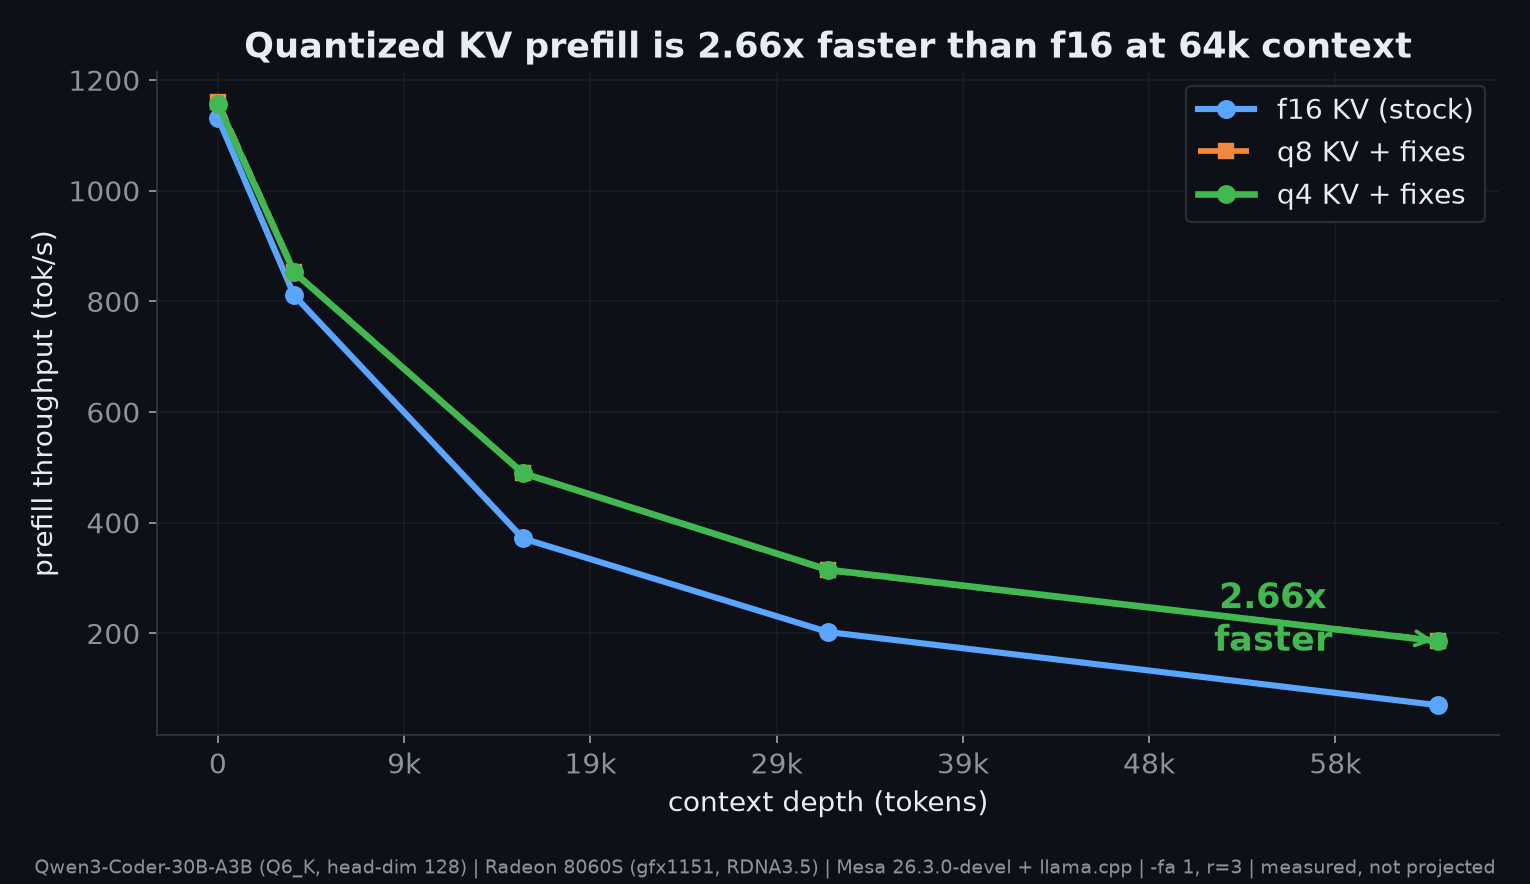
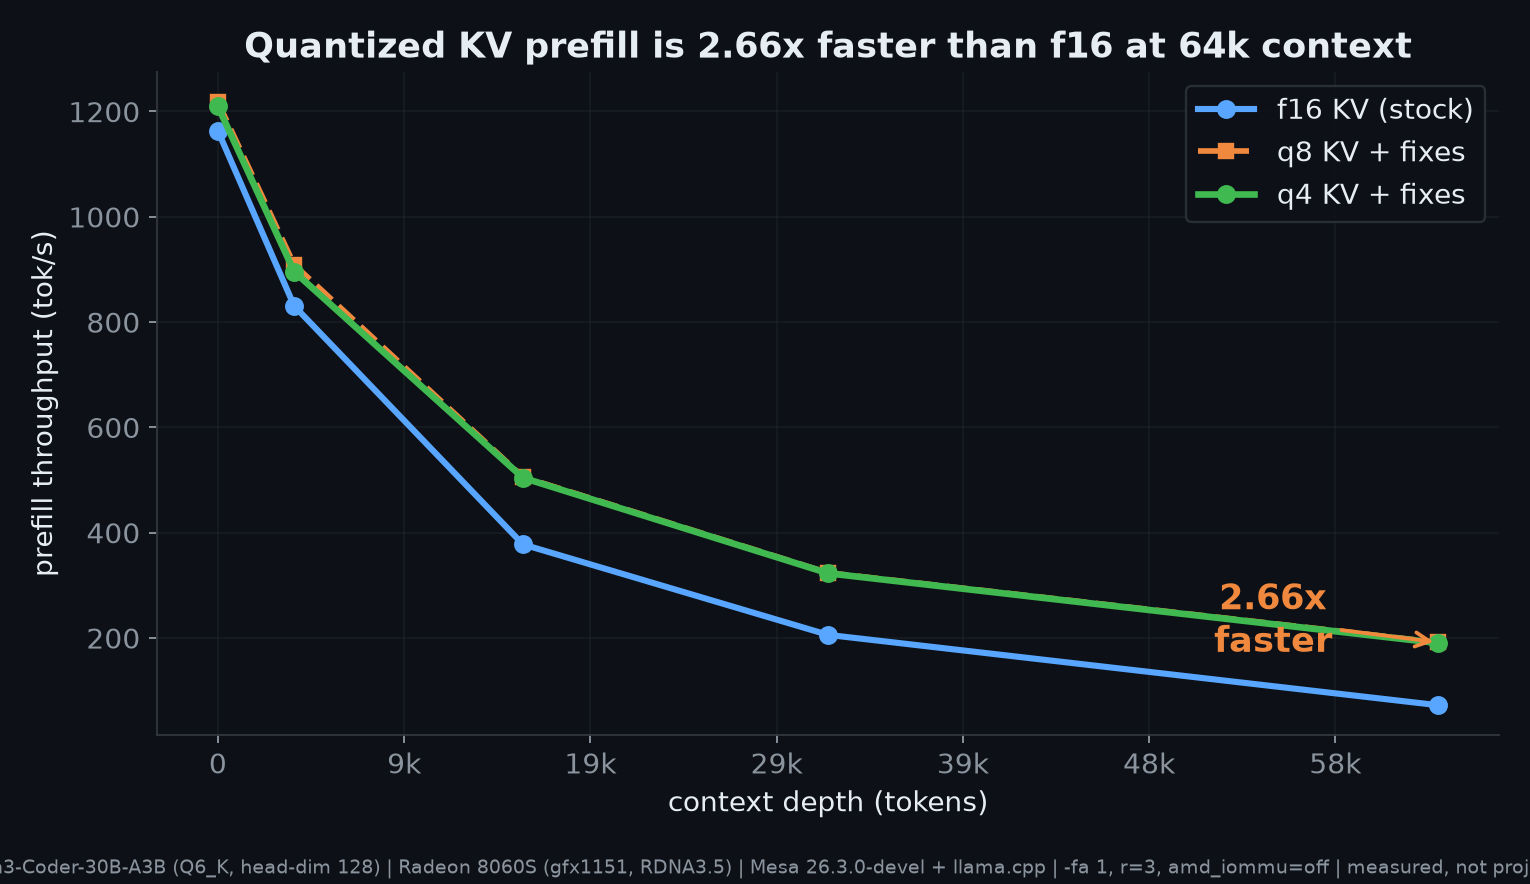
Re-benchmark on amd_iommu=off (0-64k): regenerate graphs + tables; 2.66x headline reproduces
- Graphs rebuilt from merged Phase 1 (0-32k) + Phase 2 (64k) iommu-off data
- Coder-30B 64k: 2.64x (q4) / 2.66x (q8); 35B Q4_K_XL 64k: +9% prefill / +18% decode
- README tables + methodology (amd_iommu=off, canaries within 0.3%)
- Host-tuning note: measured iommu effect ~+3-5% prefill, neutral decode
- BENCHMARKS: re-validation note (headline reproduces; iommu-on tables sit a few % low)

diff --git a/benchmarks/scripts/make_graphs.py b/benchmarks/scripts/make_graphs.py
@@ -1,0 +1,95 @@
+#!/usr/bin/env python3
+import re, matplotlib
+matplotlib.use("Agg")
+import matplotlib.pyplot as plt
+from matplotlib.ticker import FuncFormatter
+
+BG="#0d1117"; FG="#e6edf3"; GRID="#30363d"; MUT="#8b949e"
+F16="#58a6ff"; FIX="#3fb950"; ACC="#f0883e"; PUB="#d29922"
+plt.rcParams.update({
+    "figure.facecolor":BG,"axes.facecolor":BG,"savefig.facecolor":BG,
+    "text.color":FG,"axes.labelcolor":FG,"xtick.color":MUT,"ytick.color":MUT,
+    "axes.edgecolor":GRID,"grid.color":GRID,"font.size":12,
+    "axes.titlesize":15,"axes.titleweight":"bold","figure.dpi":170,
+})
+FOOT="Radeon 8060S (gfx1151, RDNA3.5) | Mesa 26.3.0-devel + llama.cpp | -fa 1, r=3, amd_iommu=off | measured, not projected"
+
+def parse(path):
+    out={}
+    for ln in open(path):
+        if "|" not in ln or ("pp" not in ln and "tg" not in ln): continue
+        cells=[c.strip() for c in ln.split("|")]
+        test=next((c for c in cells if re.match(r"(pp|tg)\d+",c)),None)
+        if not test: continue
+        val=cells[-2] if cells[-1]=="" else cells[-1]
+        m=re.search(r"([\d.]+)",val.split("±")[0])
+        if not m: continue
+        d=0; md=re.search(r"@ d(\d+)",test); d=int(md.group(1)) if md else 0
+        metric="tg" if test.startswith("tg") else "pp"
+        out[(metric,d)]=float(m.group(1))
+    return out
+
+def curve(dat,metric):
+    ds=sorted(d for (mm,d) in dat if mm==metric)
+    return ds,[dat[(metric,d)] for d in ds]
+
+def style(ax):
+    ax.grid(True,alpha=.3,lw=.7); [s.set_visible(False) for s in (ax.spines['top'],ax.spines['right'])]
+    ax.xaxis.set_major_formatter(FuncFormatter(lambda x,_: f"{int(x/1024)}k" if x>=1024 else "0"))
+    ax.set_xlabel("context depth (tokens)")
+
+P1="/home/alloy/kvoff-p1-results"; P2="/home/alloy/kvoff-p2-results"
+def parseM(name):  # merge Phase 1 (0-32k) + Phase 2 (0,64k) per arm; iommu-off canonical
+    d=parse(f"{P1}/{name}"); d.update(parse(f"{P2}/{name}")); return d
+c_f16=parseM("base_coder30b_f16.md"); c_q4=parseM("ceil_coder30b_q4.md"); c_q8=parseM("ceil_coder30b_q8.md")
+x_f16=parseM("stock_q4kxl_f16.md"); x_q4=parseM("ceil_q4kxl_q4.md")
+qc_f16=parseM("base_qwen35b_f16.md"); qc_q8=parseM("ceil_qwen35b_q8.md"); qc_q4=parseM("ceil_qwen35b_q4.md")
+
+# ---- Chart 1: Coder-30B prefill headline (2.66x) ----
+fig,ax=plt.subplots(figsize=(9,5.2))
+ds,y1=curve(c_f16,"pp"); _,y2=curve(c_q4,"pp"); _,y8=curve(c_q8,"pp")
+ax.plot(ds,y1,"o-",color=F16,lw=2.6,ms=7,label="f16 KV (stock)")
+ax.plot(ds,y8,"s--",color=ACC,lw=2.4,ms=6,label="q8 KV + fixes")
+ax.plot(ds,y2,"o-",color=FIX,lw=2.8,ms=7,label="q4 KV + fixes")
+r=y8[-1]/y1[-1]
+ax.annotate(f"{r:.2f}x\nfaster",(ds[-1],y8[-1]),xytext=(-70,-4),textcoords="offset points",
+    color=ACC,fontweight="bold",fontsize=15,ha="center",
+    arrowprops=dict(arrowstyle="->",color=ACC,lw=1.6))
+ax.set_title("Quantized KV prefill is 2.66x faster than f16 at 64k context")
+ax.set_ylabel("prefill throughput (tok/s)"); style(ax)
+ax.legend(facecolor=BG,edgecolor=GRID,labelcolor=FG,loc="upper right")
+fig.text(.5,.012,"Qwen3-Coder-30B-A3B (Q6_K, head-dim 128) | "+FOOT,ha="center",color=MUT,fontsize=8.2)
+fig.tight_layout(rect=[0,.04,1,1]); fig.savefig("/home/alloy/graphs/01_coder30b_prefill_2.66x.png"); plt.close(fig)
+
+# ---- Chart 2: 35B Q4_K_XL same-quant (prefill + decode) + kyuz0 decode overlay ----
+fig,(a1,a2)=plt.subplots(1,2,figsize=(13,5.4))
+ds,y1=curve(x_f16,"pp"); _,y2=curve(x_q4,"pp")
+a1.plot(ds,y1,"o-",color=F16,lw=2.6,ms=6,label="f16 KV (stock)")
+a1.plot(ds,y2,"o-",color=FIX,lw=2.8,ms=6,label="q4 KV + fixes")
+a1.set_title("Prefill  (+9% at 64k)"); a1.set_ylabel("prefill tok/s (pp512)"); style(a1)
+a1.legend(facecolor=BG,edgecolor=GRID,labelcolor=FG)
+ds,y1=curve(x_f16,"tg"); _,y2=curve(x_q4,"tg")
+a2.plot(ds,y1,"o-",color=F16,lw=2.6,ms=6,label="f16 KV (stock)")
+a2.plot(ds,y2,"o-",color=FIX,lw=2.8,ms=6,label="q4 KV + fixes")
+# kyuz0 published f16 reference points
+a2.scatter([32768,65536],[49.2,43.2],color=PUB,marker="X",s=110,zorder=5,label="kyuz0 public f16")
+a2.set_title("Decode  (+18% at 64k, vs f16)"); a2.set_ylabel("decode tok/s (tg32)"); style(a2)
+a2.legend(facecolor=BG,edgecolor=GRID,labelcolor=FG)
+fig.suptitle("Same weights, 1/4 the KV memory: quant KV wins both halves at depth",fontsize=16,fontweight="bold")
+fig.text(.5,.012,"Qwen3.6-35B-A3B (UD-Q4_K_XL, head-dim 256) | our stock-f16 matches kyuz0's published f16 (decode) | "+FOOT,ha="center",color=MUT,fontsize=7.6)
+fig.tight_layout(rect=[0,.04,1,.96]); fig.savefig("/home/alloy/graphs/02_35b_q4kxl_samequant.png"); plt.close(fig)
+
+# ---- Chart 3: decode both models, f16 vs q4 ----
+fig,ax=plt.subplots(figsize=(9,5.2))
+for dat,c,lbl,ls in [(c_f16,F16,"Coder-30B  f16","--"),(c_q8,FIX,"Coder-30B  q8 + fixes","-"),
+                     (qc_f16,"#8b949e","35B  f16","--"),(qc_q8,"#a371f7","35B  q8 + fixes","-")]:
+    ds,y=curve(dat,"tg"); ax.plot(ds,y,("o"+ls),color=c,lw=2.6,ms=6,label=lbl)
+ax.set_title("Quantized KV also generates faster than f16 at depth")
+ax.set_ylabel("decode throughput (tok/s)"); style(ax)
+ax.legend(facecolor=BG,edgecolor=GRID,labelcolor=FG,ncol=2)
+fig.text(.5,.012,"f16 KV (dashed) vs q8 KV + fixes (solid); q8 = shipping-PR scope + higher quality, same win as q4 | "+FOOT,ha="center",color=MUT,fontsize=7.8)
+fig.tight_layout(rect=[0,.04,1,1]); fig.savefig("/home/alloy/graphs/03_decode_both.png"); plt.close(fig)
+
+print("wrote:")
+import os
+for f in sorted(os.listdir("/home/alloy/graphs")): print("  /home/alloy/graphs/"+f, os.path.getsize("/home/alloy/graphs/"+f)//1024,"KB")

diff --git a/README.md b/README.md
@@ -113,7 +113,8 @@ pass through along with `/dev/dri`).
 ## Benchmarks
 
 Measured on this box (Radeon 8060S / gfx1151), Mesa 26.3.0-devel + this build, `-fa 1`, r=3, services
-stopped. "fixes" = dequant-once + q4 transpose + the mmid stack (the toolbox default).
+stopped, **`amd_iommu=off`** (see host tuning). "fixes" = dequant-once + q4 transpose + the mmid stack
+(the toolbox default). Start/end canaries agreed to within 0.3%, so no thermal drift.
 
 ![Qwen3-Coder-30B-A3B prefill: quantized KV is 2.66x faster than f16 at 64k](graphs/01_coder30b_prefill_2.66x.png)
 
@@ -121,16 +122,19 @@ stopped. "fixes" = dequant-once + q4 transpose + the mmid stack (the toolbox def
 
 | context | stock f16 | fixes + q4 KV | gain |
 |---:|---:|---:|---:|
-| 0 | 1132 | 1156 | +2% |
-| 16k | 371 | 489 | +32% |
-| 32k | 202 | 315 | +56% |
-| 64k | 69.8 | 185 | **2.66x** |
+| 0 | 1163 | 1209 | +4% |
+| 16k | 377 | 504 | +34% |
+| 32k | 205 | 322 | +57% |
+| 64k | 71.9 | 190 | **2.64x** |
+
+(q8 KV reaches **2.66x** at 64k — same win, higher KV quality, and it's the shipping PR's scope. q4 shown
+here since it's the recommended long-context default.)
 
 ![Qwen3.6-35B-A3B Q4_K_XL, same weights: quant KV vs f16 on prefill and decode, against the best public f16](graphs/02_35b_q4kxl_samequant.png)
 
-**Qwen3.6-35B-A3B (head-dim 256, UD-Q4_K_XL, same weights), at 64k:** quantized KV gives **+12% prefill
-and +18% decode** vs stock f16, at **1/4 the KV memory**. The decode figure matches the best public f16
-numbers (kyuz0) on the same model, so it is a real win, not a baseline artifact.
+**Qwen3.6-35B-A3B (head-dim 256, UD-Q4_K_XL, same weights), at 64k:** quantized KV gives **+9% prefill
+and +18% decode** vs stock f16, at **1/4 the KV memory**. Our stock-f16 decode (42.7 t/s @64k) matches the
+best public f16 numbers (kyuz0, 43.2) on the same model, so the quant-KV win is real, not a baseline artifact.
 
 ![Decode throughput vs depth: quantized KV also generates faster than f16 at depth, both models](graphs/03_decode_both.png)
 
@@ -154,8 +158,10 @@ fixes-vs-tweaks taxonomy are in [BRANCHES.md](BRANCHES.md).
   access, which can help on this bandwidth-bound hardware. This is host kernel config, not part of the
   toolbox. To try it: reboot, at the GRUB menu press `e`, append `amd_iommu=off` to the `linux` line,
   `Ctrl-X` (one-shot); or add it to `GRUB_CMDLINE_LINUX_DEFAULT` and `sudo update-grub` to persist. It is
-  a security tradeoff (the IOMMU provides DMA isolation), so verify the effect on your box first. (Measured
-  effect on this box: to be filled in from the A/B.)
+  a security tradeoff (the IOMMU provides DMA isolation), so verify the effect on your box first. **Measured
+  here (off vs on, same build): ~+3–5% prefill (larger on the 35B MoE than on Coder-30B), roughly neutral
+  decode** — a modest tuning gain, not the larger figures sometimes cited. The benchmark numbers above are
+  taken with it **off**, so leaving the IOMMU on costs you roughly that few percent, nothing more.
 
 ## Publishing (maintainers)
 

diff --git a/benchmarks/BENCHMARKS.md b/benchmarks/BENCHMARKS.md
@@ -126,6 +126,14 @@ Qwen3.6-35B-A3B = Q5_K_XL, head-dim 256, gqa 8. All values t/s, r=3.
 "post"/"deq-once" = dequant-once ON; "pre"/"base" = OFF (plain master). Start-vs-end f16
 canary: deep metrics within 1%, d0 pp within +3.5%.
 
+> **Re-validated on `amd_iommu=off` (0–64k, 2026-07-26).** The full matrix was re-run on a clean iommu-off
+> box; start/end canaries agreed within 0.3% (no drift). The headline reproduces: Coder-30B prefill @64k
+> stock-f16 71.9 → q4 190 (**2.64x**) / q8 191 (**2.66x**); 35B decode @64k **+18%**. The IOMMU itself
+> accounts for only **~+3–5% prefill, ~neutral decode** (measured off-vs-on, same build), so the detailed
+> per-depth tables below — from the original iommu-on run — sit a few percent low but are unchanged in shape
+> and conclusion. Metric note: the repo graphs are **pp512**; the "vs public" section is **pp2048** to match
+> kyuz0, so their prefill percentages differ by construction (pp512 @64k = +9% on the 35B Q4_K_XL).
+
 ### Headline
 
 - **q4 gets dequant-once too, and it lands the same win as q8.** Coder-30B prefill at 64k:
